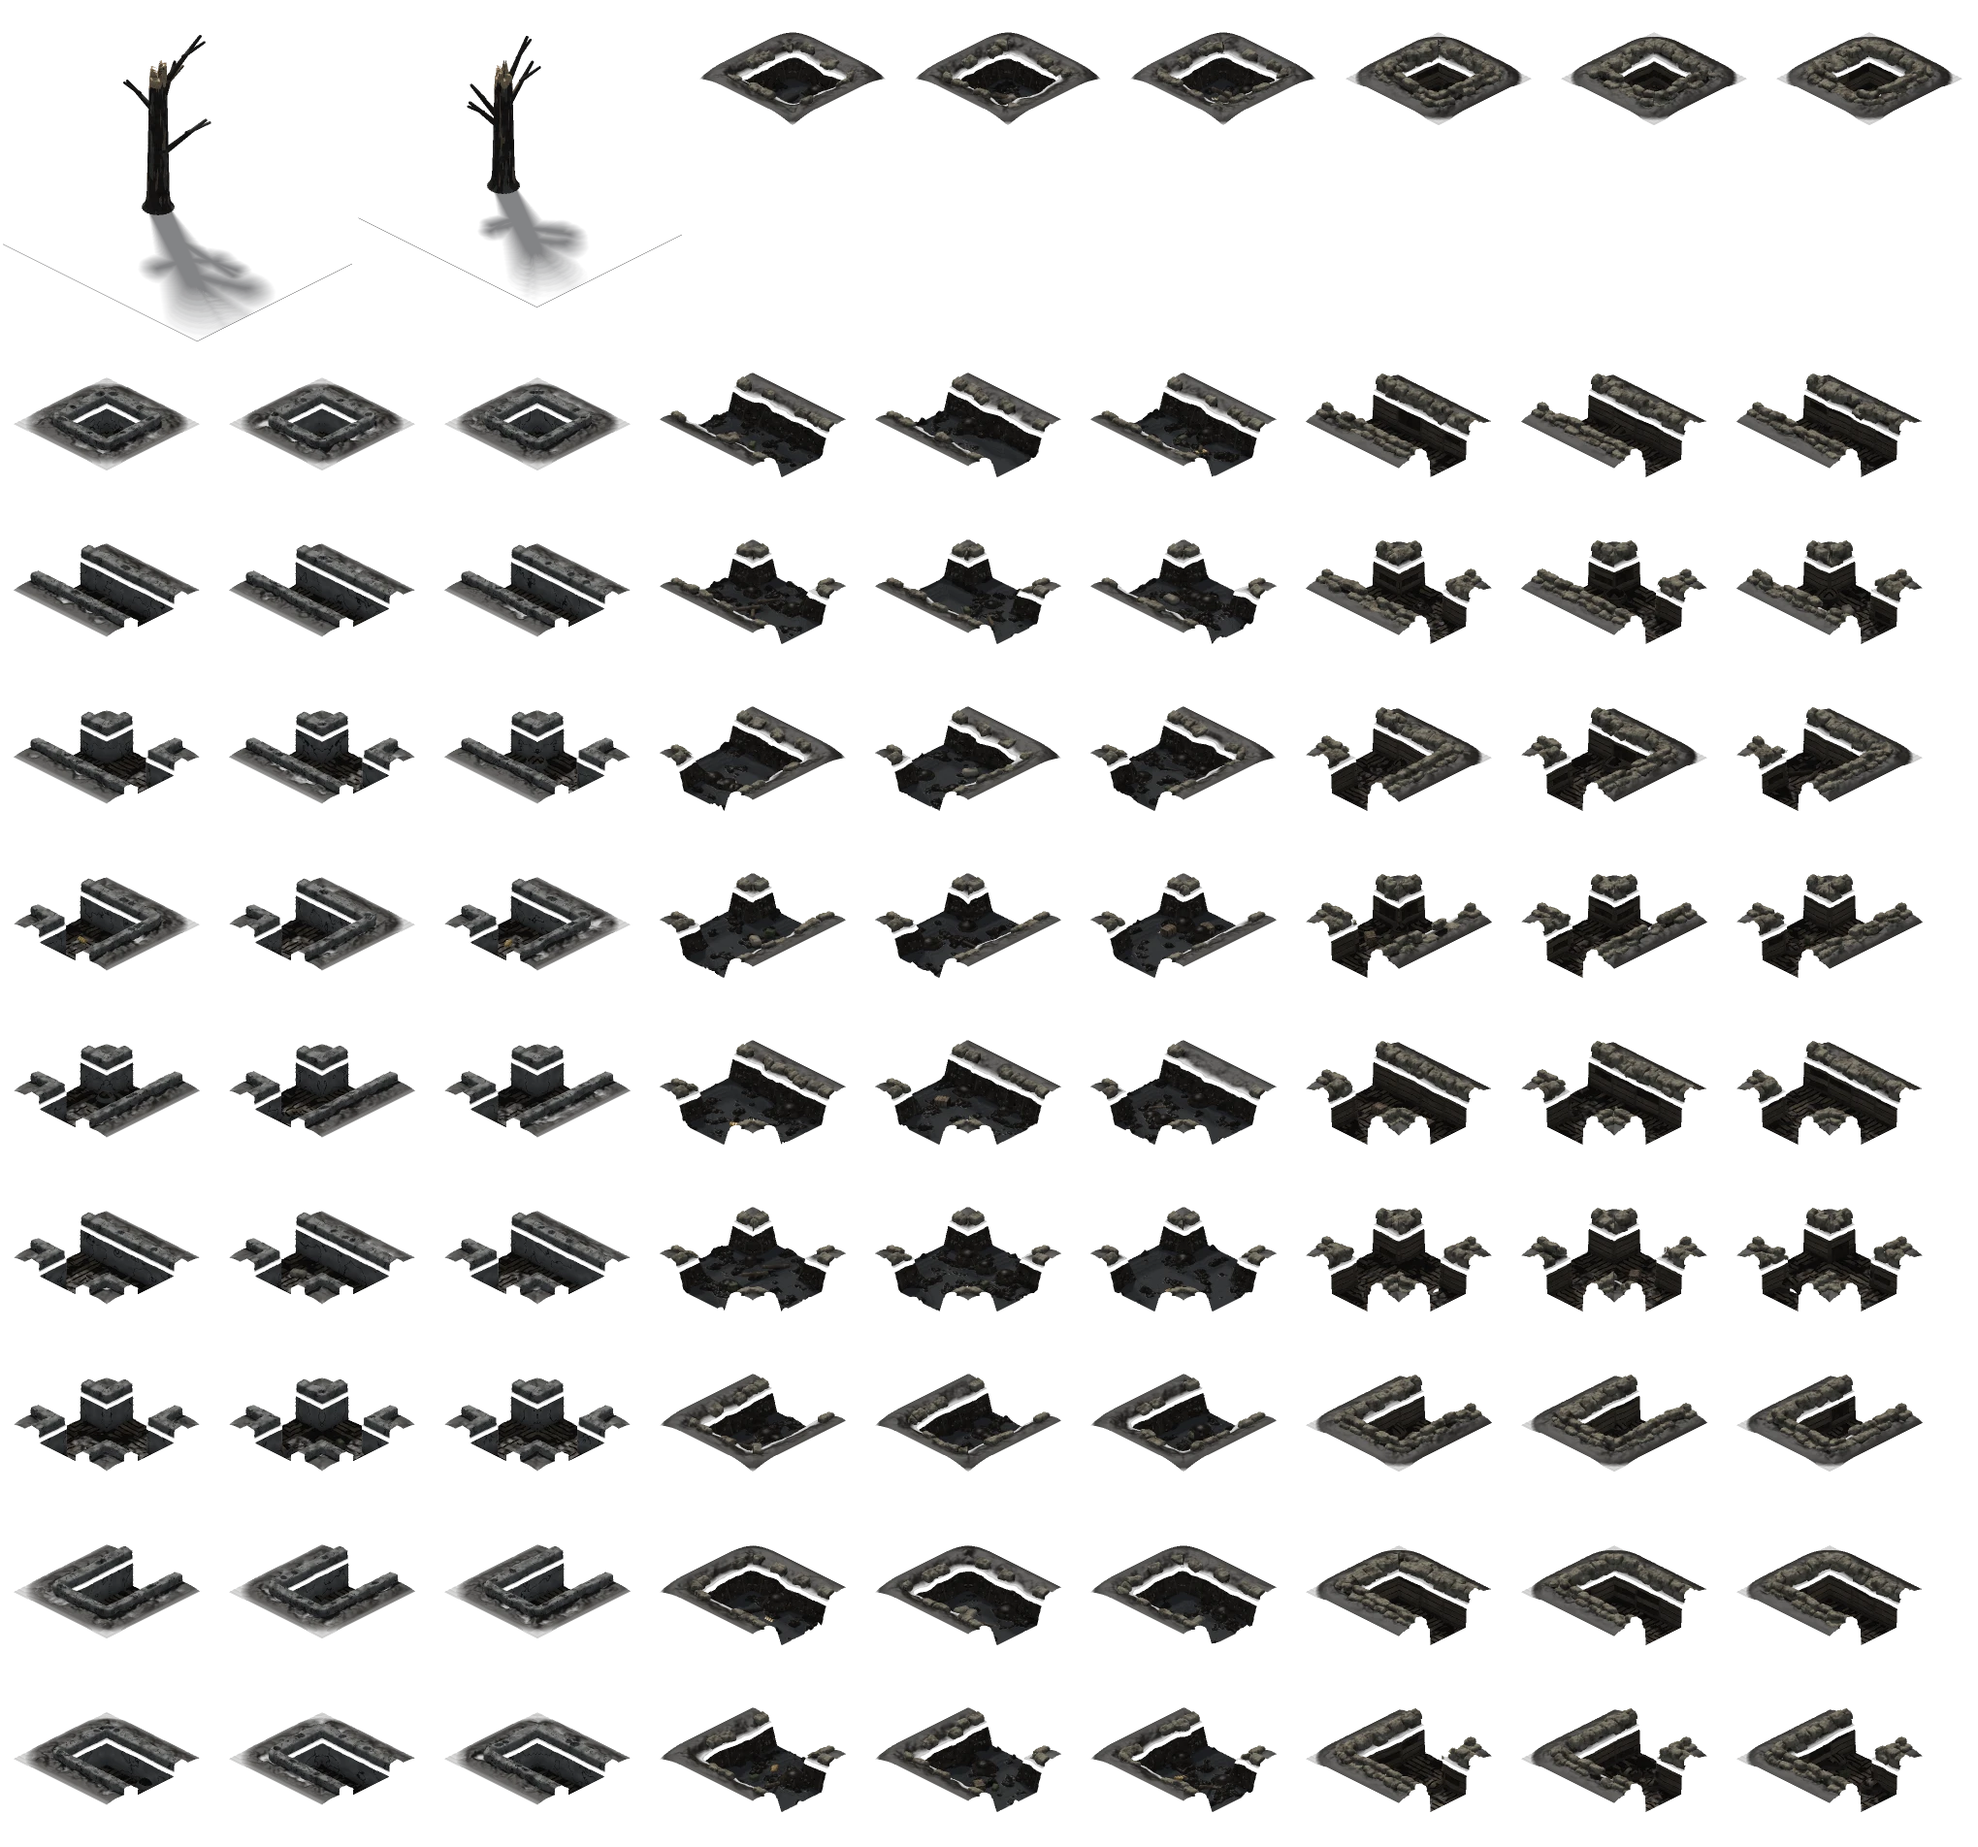
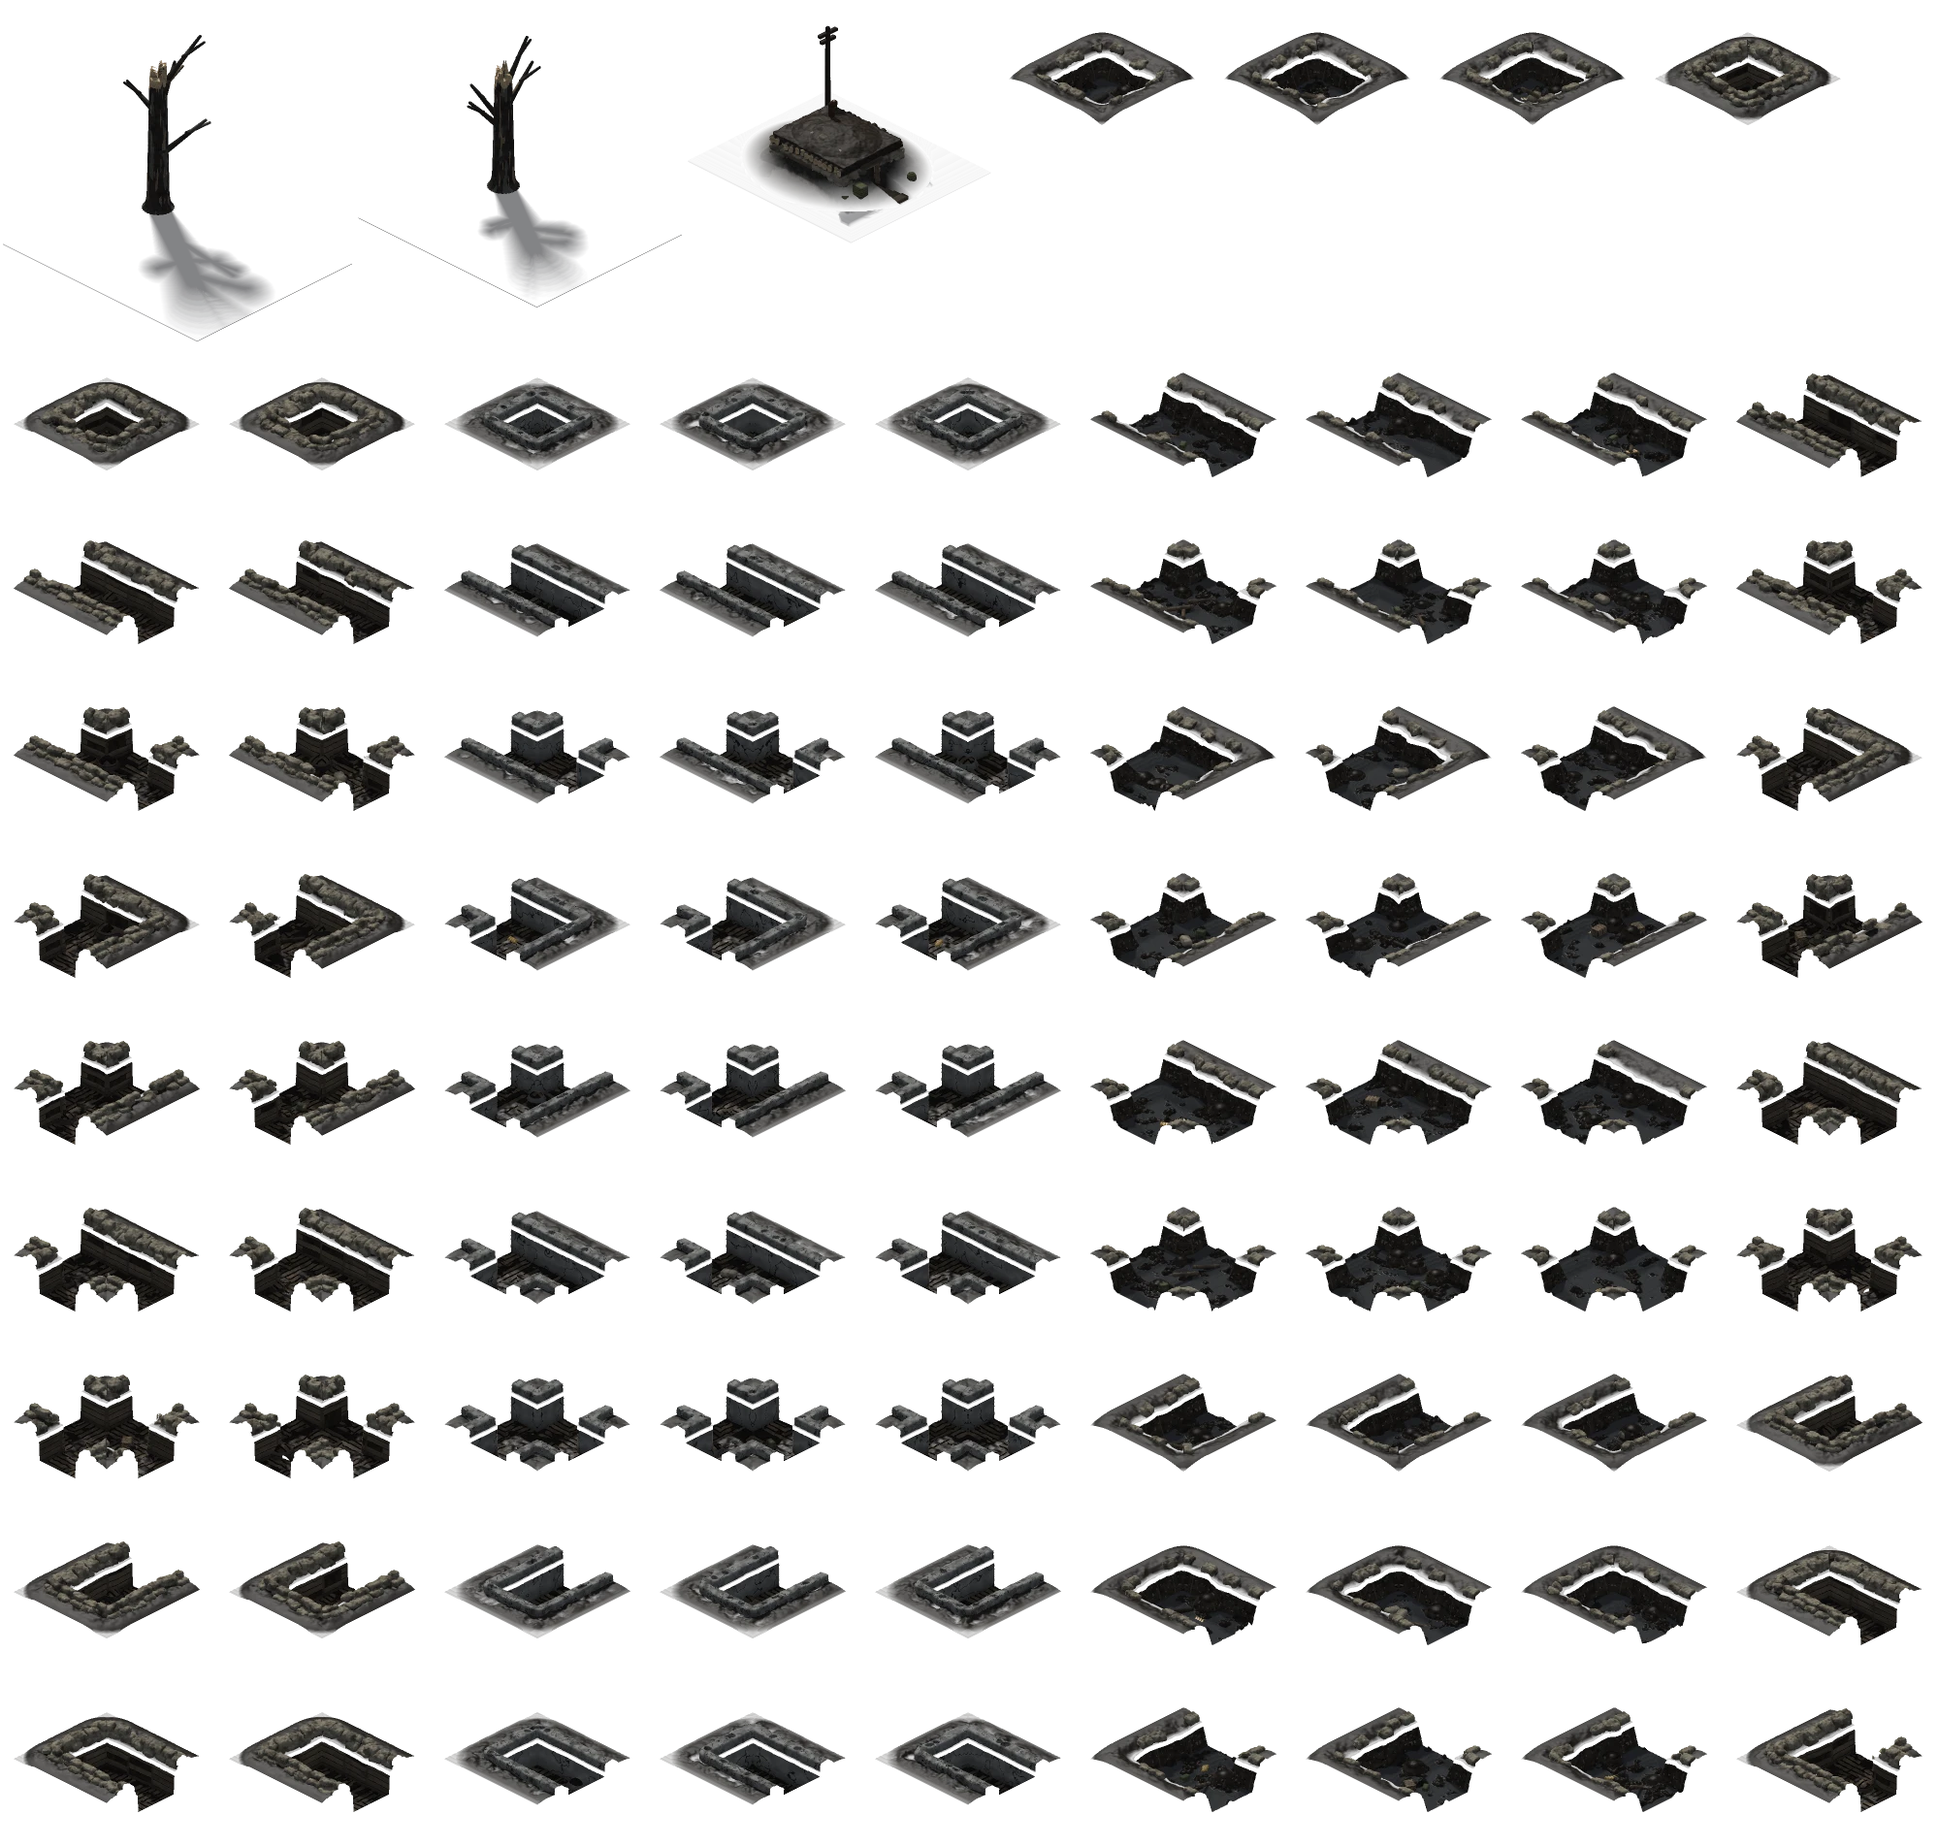
3D-rendered HQ command bunker
- tools/render3d: hqScene - dug-in command post with earth-covered log roof,
  sandbag walls banked with earth, timber-framed entrance with steps down,
  firing slit, stovepipe, ammunition crates, water drum and telephone pole;
  bare and snow variants, packed into the season sprite sheets
- Drawn 1.6x so the objective reads at map scale; the ownership flag,
  sagging field-telephone wires and stovepipe smoke are drawn live

Claude-Session: https://claude.ai/code/session_01QRLYjet5i3xPK5hPmw42NL

diff --git a/src/render.js b/src/render.js
@@ -987,6 +987,37 @@ export class Renderer {
     const c = iso(q.x + 0.5, q.y + 0.5);
     const owner = tileAt(state.map, q.x, q.y).owner;
     const f = team === PLAYER ? 1 : -1;
+    const HQK = 1.6; // the command post is drawn larger than life so it reads as the objective
+    if (this.drawFrame(ctx, this.propGroup(), 'hq' + (S > 0.7 ? '_s' : ''), c.x, c.y, HQK)) {
+      const UP = 39.2; // screen px per world unit of height (45.25 * cos 30deg)
+      const at = (dx, dy, z) => { const p = iso(q.x + 0.5 + dx * HQK, q.y + 0.5 + dy * HQK); return { x: p.x, y: p.y - z * UP * HQK }; };
+      // stovepipe smoke
+      const pipe = at(-0.15, -0.12, 0.44);
+      for (let i = 0; i < 5; i++) {
+        const k = ((state.time * 0.25 + i / 5) % 1);
+        ctx.fillStyle = `rgba(90,88,84,${0.28 * (1 - k)})`;
+        ctx.beginPath(); ctx.arc(pipe.x + k * 14 + Math.sin(k * 6 + i) * 2, pipe.y - k * 30, 2.5 + k * 7, 0, TAU); ctx.fill();
+      }
+      // field-telephone wires sagging away from the pole
+      const top = at(-0.62, -0.52, 0.72);
+      ctx.strokeStyle = 'rgba(20,18,16,0.75)'; ctx.lineWidth = 0.6;
+      for (const [dx, dy, sag] of [[1.6, -2.2, 14], [2.8, -1.4, 18], [-1.8, 1.5, 12]]) {
+        const e = at(-0.62 + dx * f, -0.52 + dy, 0.55);
+        ctx.beginPath(); ctx.moveTo(top.x, top.y); ctx.quadraticCurveTo((top.x + e.x) / 2, (top.y + e.y) / 2 + sag, e.x, e.y); ctx.stroke();
+      }
+      // flag by the entrance shows who holds the HQ
+      const base = at(0.5, -0.2, 0), head = at(0.5, -0.2, 0.95);
+      ctx.strokeStyle = '#1e1a16'; ctx.lineWidth = 1.4;
+      ctx.beginPath(); ctx.moveTo(base.x, base.y); ctx.lineTo(head.x, head.y); ctx.stroke();
+      ctx.fillStyle = owner < 0 ? '#999' : TEAM_COLOR[owner];
+      const wave = Math.sin(state.time * 3 + team) * 2;
+      ctx.beginPath(); ctx.moveTo(head.x, head.y); ctx.quadraticCurveTo(head.x + 8, head.y + wave, head.x + 17, head.y + 3 + wave);
+      ctx.lineTo(head.x + 17, head.y + 9 + wave); ctx.quadraticCurveTo(head.x + 8, head.y + 7 - wave, head.x, head.y + 9); ctx.closePath(); ctx.fill();
+      ctx.font = 'bold 9px sans-serif'; ctx.textAlign = 'center';
+      ctx.fillStyle = 'rgba(0,0,0,0.7)'; ctx.fillText('HQ', c.x + 0.5, c.y + 34.5);
+      ctx.fillStyle = '#e8e8e0'; ctx.fillText('HQ', c.x, c.y + 34);
+      return;
+    }
     // earth mound
     ctx.fillStyle = 'rgba(0,0,0,0.28)';
     ctx.beginPath(); ctx.ellipse(c.x + 5, c.y + 6, 44, 19, 0, 0, TAU); ctx.fill();
